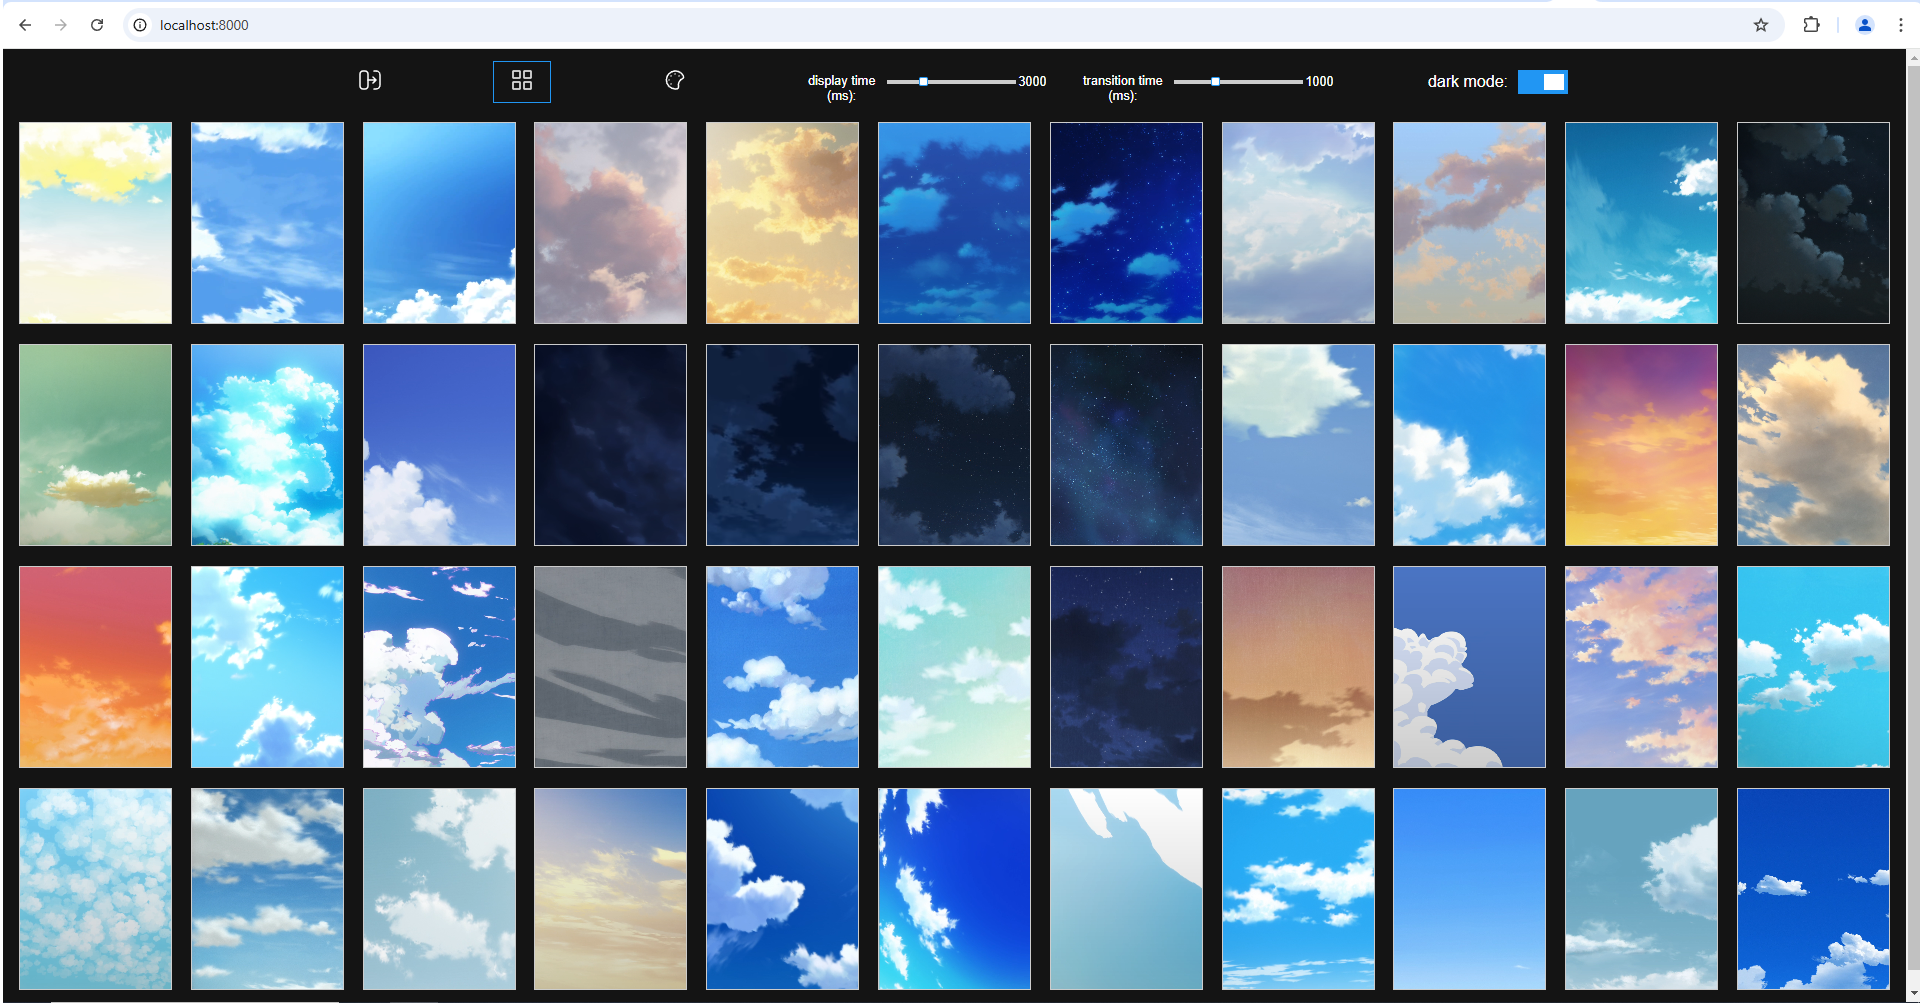
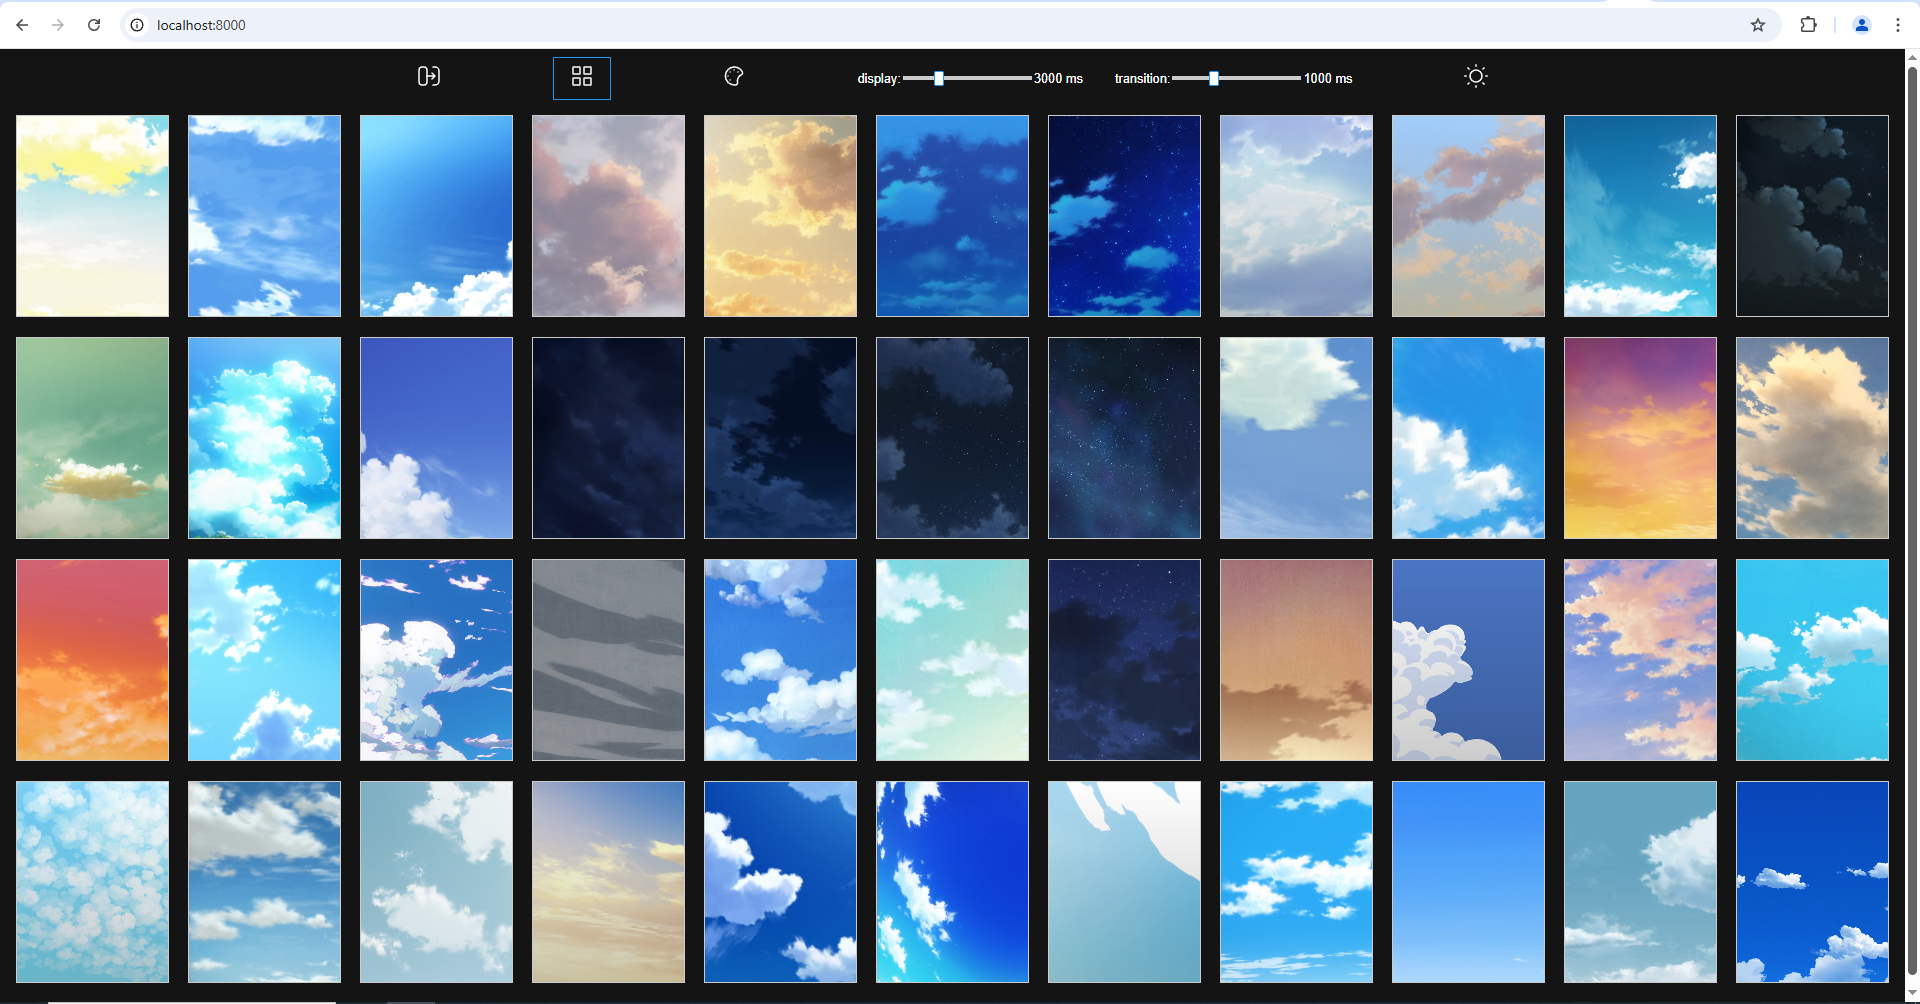
misc edits (#5)
* put time units (ms) in current value label, try fixing dark mode switch toggle to not go outside the switch for smaller screens

* use vw/vh instead of % and px, try to get things looking better on smaller screens

* revert image display size, drop the slider for dark mode toggle and just use a icon button :)

diff --git a/index.html b/index.html
@@ -2,7 +2,8 @@
 
 <html>
   <head>
-    <meta charset="utf-8">
+    <meta name="viewport" content="width=device-width, initial-scale=1.0" />
+    <meta charset="UTF-8">
     <title>anime skies</title>
     <script src="./modal.js"></script>
     <script src="./imageAnalysis.js"></script>
@@ -12,27 +13,39 @@
         font-family: Helvetica;
       }
       
-      h1 {
-        margin: 10px 0px 10px 0px;
-      }
-      
       header {
         display: flex;
         gap: 5%;
         margin-bottom: 15px;
-        justify-content: center;
         align-items: center;
+        overflow-x: auto;
+        
+        /* don't use justify-content: center as 
+           that hides the buttons on smaller screens :/
+           
+           instead we can use auto for the margins of the first and
+           last children of the header to center the header's children
+           so things look fine on large screens and everything will
+           still show (but with overflow scroll) on smaller screens
+        */
+      }
+      
+      header > :first-child {
+        margin-left: auto;
+      }
+      
+      header > :last-child {
+        margin-right: auto;
       }
       
       button {
-        /* border-radius: 8px; */
         border: 1px solid transparent;
         padding: 0.4em 1.0em;
         font-size: 1em;
         font-weight: 500;
         font-family: inherit;
         cursor: pointer;
-        background-color: transparent; 
+        background-color: transparent;
       }
       
       button:hover {
@@ -47,10 +60,6 @@
       .opt {
         display: flex;
         align-items: center;
-      }
-      
-      .opt p {
-        margin-bottom: 0;
       }
       
       .preview {
@@ -89,7 +98,7 @@
       #options {
         display: flex;
         justify-content: center;
-        gap: 5%;
+        gap: 2em;
       }
       
       #options p, label {
@@ -105,8 +114,8 @@
       #displayDurationInput::-webkit-slider-thumb, 
       #transitionDurationInput::-webkit-slider-thumb {
         appearance: none;
-        width: 9px;
-        height: 9px;
+        width: 0.5vw;
+        height: 1.5vh;
         border: 1px solid #2196f3;
         border-radius: 2px;
         cursor: pointer;
@@ -117,8 +126,8 @@
       #displayDurationInput::-moz-range-thumb, 
       #transitionDurationInput::-moz-range-thumb {
         appearance: none;
-        width: 9px;
-        height: 9px;
+        width: 0.5vw;
+        height: 1.5vh;
         border: 1px solid #2196f3;
         border-radius: 2px;
         cursor: pointer;
@@ -142,62 +151,6 @@
       
       #slideshowMode {
         border: 1px solid #2196f3;
-      }
-      
-      #darkModeSwitch {
-        display: flex;
-        align-items: center;
-        gap: 10px;
-      }
-      
-      /* hide the default checkbox HTML */
-      #toggleDarkModeCheckbox {
-        opacity: 0;
-      }
-      
-      .switch {
-        position: relative;
-        display: inline-block;
-        width: 50px;
-        height: 24px;
-      }
-      
-      .slider {
-        position: absolute;
-        cursor: pointer;
-        top: 0px;
-        left: 0px;
-        right: 0px;
-        bottom: 0px;
-        background-color: #ccc;
-        transition: .4s;
-      }
-      
-      .slider:before {
-        position: absolute;
-        content: "";
-        height: 16px;
-        width: 20px;
-        left: 4px;
-        bottom: 4px;
-        background-color: #fff;
-        transition: .4s;
-      }
-      
-      .colorDiv:hover {
-        cursor: pointer;
-      }
-      
-      #toggleDarkModeCheckbox:checked + .slider {
-        background-color: #2196f3;
-      }
-      
-      #toggleDarkModeCheckbox:focus + .slider {
-        box-shadow: 0px 0px 1px #2196f3;
-      }
-      
-      #toggleDarkModeCheckbox:checked + .slider:before {
-        transform: translateX(22px);
       }
       
       .slideRight {
@@ -231,26 +184,22 @@
       
       <div id='options'>
         <div class='opt'>
-          <p> display time (ms): </p>
+          <p> display: </p>
           <input id='displayDurationInput' type='range' value='3000' min='500' max='10000' />
-          <label for='displayDurationInput' id='displayDurationLabel'> 3000 </label>
+          <label for='displayDurationInput' id='displayDurationLabel'> 3000 ms </label>
         </div>
         
         <div class='opt'>
-          <p> transition time (ms): </p>
+          <p> transition: </p>
           <input id='transitionDurationInput' type='range' value='1000' min='100' max='3000' /> 
-          <label for='transitionDurationInput' id='transitionDurationLabel'> 1000 </label>
+          <label for='transitionDurationInput' id='transitionDurationLabel'> 1000 ms </label>
         </div>
       </div>
       
-      <!-- https://www.w3schools.com/howto/howto_css_switch.asp -->
-      <div id='darkModeSwitch'>
-        <p> dark mode: </p>
-        <label class='switch'>
-          <input id='toggleDarkModeCheckbox' type='checkbox' />
-          <span class='slider'></span>
-        </label>
-      </div>
+      <button id='toggleDarkMode' title='toggle dark/light mode'>
+        <!-- from https://iconoir.com/ (moon) -->
+        <svg width="24px" height="24px" stroke-width="1.5" viewBox="0 0 24 24" fill="none" xmlns="http://www.w3.org/2000/svg" color="#000000"><path d="M3 11.5066C3 16.7497 7.25034 21 12.4934 21C16.2209 21 19.4466 18.8518 21 15.7259C12.4934 15.7259 8.27411 11.5066 8.27411 3C5.14821 4.55344 3 7.77915 3 11.5066Z" stroke="#000000" stroke-width="1.5" stroke-linecap="round" stroke-linejoin="round"></path></svg>
+      </button>
     </header>
     
     <content>
@@ -274,6 +223,7 @@
       let lastTime = new Date();
       let slideshowOn = true;
       let lastCanvasClickPos = null;
+      let darkMode = false;
       
       let displayDuration = 3000; // 3 sec
       let transitionDuration = 1000; // 1 sec
@@ -289,7 +239,7 @@
       });
       
       document.getElementById('displayDurationInput').addEventListener('input', (evt) => {
-        document.getElementById('displayDurationLabel').textContent = evt.target.value;
+        document.getElementById('displayDurationLabel').textContent = `${evt.target.value} ms`;
       });
       
       document.getElementById('transitionDurationInput').addEventListener('change', (evt) => {
@@ -297,7 +247,7 @@
       });
       
       document.getElementById('transitionDurationInput').addEventListener('input', (evt) => {
-        document.getElementById('transitionDurationLabel').textContent = evt.target.value;
+        document.getElementById('transitionDurationLabel').textContent = `${evt.target.value} ms`;
       });
       
       // clicking on slideshow button
@@ -363,17 +313,25 @@
       });
       
       // toggle dark/light mode
-      document.getElementById('toggleDarkModeCheckbox').addEventListener('change', (evt) => {
+      document.getElementById('toggleDarkMode').addEventListener('click', (evt) => {
         const white = 'rgb(255, 255, 255)';
         const black = 'rgb(20, 20, 20)';
         
-        if(evt.target.checked){
+        darkMode = !darkMode;
+        
+        if(darkMode){
+          // svg icon from iconoir.com (sun)
+          evt.target.innerHTML = '<svg width="24px" height="24px" stroke-width="1.5" viewBox="0 0 24 24" fill="none" xmlns="http://www.w3.org/2000/svg" color="#000000"><path d="M12 18C15.3137 18 18 15.3137 18 12C18 8.68629 15.3137 6 12 6C8.68629 6 6 8.68629 6 12C6 15.3137 8.68629 18 12 18Z" stroke="#000000" stroke-width="1.5" stroke-linecap="round" stroke-linejoin="round"></path><path d="M22 12L23 12" stroke="#000000" stroke-width="1.5" stroke-linecap="round" stroke-linejoin="round"></path><path d="M12 2V1" stroke="#000000" stroke-width="1.5" stroke-linecap="round" stroke-linejoin="round"></path><path d="M12 23V22" stroke="#000000" stroke-width="1.5" stroke-linecap="round" stroke-linejoin="round"></path><path d="M20 20L19 19" stroke="#000000" stroke-width="1.5" stroke-linecap="round" stroke-linejoin="round"></path><path d="M20 4L19 5" stroke="#000000" stroke-width="1.5" stroke-linecap="round" stroke-linejoin="round"></path><path d="M4 20L5 19" stroke="#000000" stroke-width="1.5" stroke-linecap="round" stroke-linejoin="round"></path><path d="M4 4L5 5" stroke="#000000" stroke-width="1.5" stroke-linecap="round" stroke-linejoin="round"></path><path d="M1 12L2 12" stroke="#000000" stroke-width="1.5" stroke-linecap="round" stroke-linejoin="round"></path></svg>';
+          
           // dark mode
           document.body.style.backgroundColor = black;
           document.body.style.color = white;
           document.querySelectorAll('path').forEach(path => path.style.stroke = '#fff');
           document.querySelectorAll('button').forEach(btn => btn.style.color = white);
         }else{
+          // svg icon from iconoir.com (moon)
+          evt.target.innerHTML = '<svg width="24px" height="24px" stroke-width="1.5" viewBox="0 0 24 24" fill="none" xmlns="http://www.w3.org/2000/svg" color="#000000"><path d="M3 11.5066C3 16.7497 7.25034 21 12.4934 21C16.2209 21 19.4466 18.8518 21 15.7259C12.4934 15.7259 8.27411 11.5066 8.27411 3C5.14821 4.55344 3 7.77915 3 11.5066Z" stroke="#000000" stroke-width="1.5" stroke-linecap="round" stroke-linejoin="round"></path></svg>';
+          
           // light mode
           document.body.style.backgroundColor = white;
           document.body.style.color = black;
